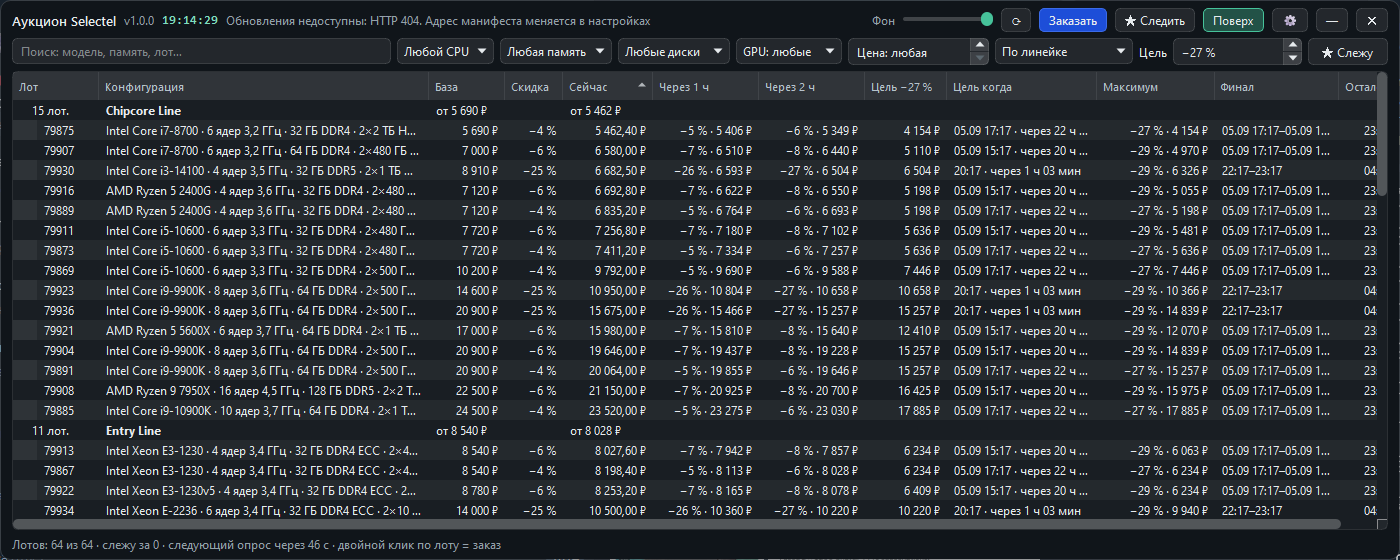
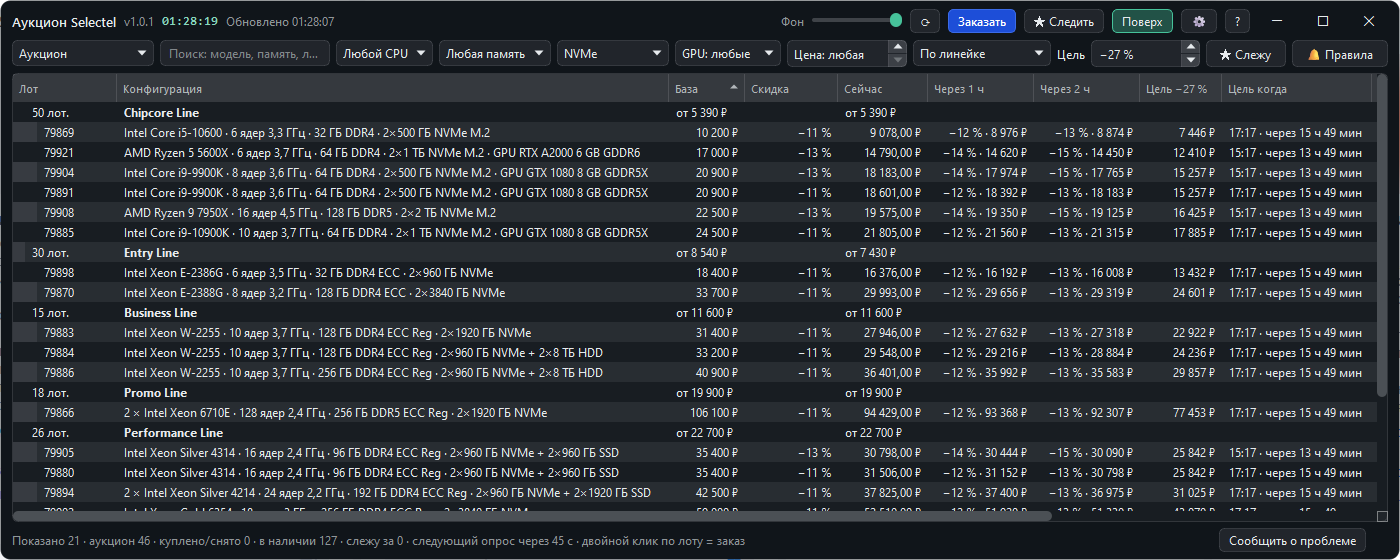
docs: тексты сайта человеческим языком, новые скриншоты без прозрачности, разделы про наличие и правила

Changed region(s): [[0.0, 0.0, 1.0, 1.0]]

diff --git a/docs/index.html b/docs/index.html
@@ -73,9 +73,9 @@
 
 <header class="hero">
   <div class="wrap">
-    <p class="eyebrow">Бесплатно · Windows и Linux · без регистрации в приложении</p>
-    <h1>Аукцион Selectel у вас перед глазами</h1>
-    <p class="lede">На аукционе выделенных серверов Selectel цена лота падает на <b>1 % каждый час</b> и доходит до <b>−29…30 %</b>, но лот в любой момент может забрать кто-то другой. Панель показывает все лоты живьём, считает, во сколько цена дойдёт до вашей, будит звуком в нужный момент и открывает заказ в один клик.</p>
+    <p class="eyebrow">Бесплатно · Windows и Linux · логин и пароль от Selectel не нужны</p>
+    <h1>Бот для отслеживания и покупки серверов Selectel</h1>
+    <p class="lede">Selectel продаёт серверы двумя способами: обычные «в наличии» по фиксированной цене и на аукционе, где цена лота падает на <b>1 % каждый час</b> и за сутки доходит до <b>−27…30 %</b>. Ждать выгодно, но лот может выкупить кто-то другой. Панель держит все предложения перед глазами, считает, во сколько цена станет вашей, будит звуком в нужный момент и открывает заказ в один клик.</p>
     <div class="buttons">
       <a class="btn primary" href="https://github.com/neonvalve/selectel-auction-bot-releases/releases/latest">Скачать для Windows <small>setup.exe</small></a>
       <a class="btn" href="https://github.com/neonvalve/selectel-auction-bot-releases/releases/latest">Скачать для Linux <small>.deb или AppImage</small></a>
@@ -89,7 +89,7 @@
 <section>
   <div class="wrap">
     <h2>Зачем это нужно</h2>
-    <p class="sub">Аукцион Selectel устроен как голландский: партия из 20–60 лотов стартует со скидкой 3–6 %, каждый час скидка растёт на 1 %, через 25 часов лот снимают. Скидка сохраняется на весь срок аренды, поэтому выгодно дождаться конца, но кто первым оплатил, тот и забрал.</p>
+    <p class="sub">Следить за аукционом вручную утомительно: нужно держать открытым сайт, помнить, когда какой лот дойдёт до нужной цены, и не пропустить новую партию. Партия из 20–60 лотов стартует со скидкой 3–6 %, каждый час скидка растёт на 1 %, через 25 часов лот снимают, а скидка сохраняется на весь срок аренды. Кто первым оплатил, тот и забрал. Панель берёт это дежурство на себя.</p>
     <div class="why">
       <div><span class="num">1 %</span><b>каждый час</b><p>Панель знает формулу сайта и показывает не только цену сейчас, но и через 1 и 2 часа, и на любой скидке, которую вы зададите.</p></div>
       <div><span class="num">20:17</span><b>во сколько именно</b><p>Для каждого лота считается точное время, когда он дойдёт до вашей целевой скидки, и до финальной цены партии.</p></div>
@@ -102,7 +102,7 @@
 <section>
   <div class="wrap">
     <h2>Что умеет панель</h2>
-    <p class="sub">Полупрозрачное окно поверх других программ. Держите его рядом с работой, а не переключайтесь на сайт каждые полчаса.</p>
+    <p class="sub">Окно поверх других программ, при желании полупрозрачное. Держите его рядом с работой, а не переключайтесь на сайт каждые полчаса.</p>
 
     <div class="feature">
       <div class="text">
@@ -112,13 +112,26 @@
           <li>Номер лота, конфигурация: процессор, память, диски, видеокарта.</li>
           <li>Базовая цена, скидка и цена сейчас, через 1 час, через 2 часа.</li>
           <li>Максимальная скидка партии, цена в финале и время финала.</li>
+          <li>Купленные и истёкшие лоты ещё 12 часов видны серым: понятно, что и почём ушло.</li>
           <li>Сортировка по любой колонке щелчком по заголовку.</li>
         </ul>
       </div>
-      <div class="shot"><img src="img/panel.png" alt="Таблица лотов, отсортированная по цене" loading="lazy" width="1400" height="560"></div>
+      <div class="shot"><img src="img/panel.png" alt="Таблица лотов аукциона, отсортированная по цене" loading="lazy" width="1400" height="560"></div>
     </div>
 
     <div class="feature flip">
+      <div class="text">
+        <h3>Серверы в наличии тоже здесь</h3>
+        <p>Кроме аукциона панель показывает обычные серверы каталога, которые можно заказать сразу: цена в месяц, в каких дата-центрах есть и сколько штук. Переключатель «Аукцион / В наличии / Аукцион + наличие» слева в строке фильтров.</p>
+        <ul>
+          <li>Те же фильтры и группировки, что и для аукциона.</li>
+          <li>Правила поиска сообщают и о появлении нужного сервера в наличии.</li>
+        </ul>
+      </div>
+      <div class="shot"><img src="img/stock.png" alt="Серверы в наличии с локациями и количеством" loading="lazy" width="1400" height="560"></div>
+    </div>
+
+    <div class="feature">
       <div class="text">
         <h3>Фильтры и группировка по железу</h3>
         <p>Оставьте только то, что вам подходит: производитель процессора, память от 64 ГБ, NVMe, с видеокартой или без, потолок цены, поиск по названию модели.</p>
@@ -131,25 +144,37 @@
       <div class="shot"><img src="img/grouped.png" alt="Лоты, сгруппированные по линейке серверов" loading="lazy" width="1400" height="560"></div>
     </div>
 
-    <div class="feature">
+    <div class="feature flip">
       <div class="text">
         <h3>Слежение с сигналом</h3>
-        <p>Нажмите «★ Следить» и укажите порог скидки. Когда лот до него дойдёт, придёт уведомление в трее и прозвучит сигнал, встроенный или ваш WAV-файл. Если лот выкупили раньше, панель тоже сообщит.</p>
+        <p>Нажмите «★ Следить» и укажите порог скидки. Когда лот до него дойдёт, прозвучит сигнал, встроенный или ваш WAV-файл, всплывёт уведомление, панель покажется и выделит лот. Если лот выкупили раньше, панель тоже сообщит и снимет слежение.</p>
         <ul>
           <li>Порог свой для каждого лота, максимум партии подсказывается сразу.</li>
-          <li>Уведомления о новых лотах, когда выходит очередная партия.</li>
+          <li>Отслеживаемые лоты помечены золотой звездой и подсветкой строки.</li>
           <li>Работает из трея, даже если панель свёрнута.</li>
         </ul>
       </div>
       <div class="shot"><img src="img/watch.png" alt="Окно «Следить за лотом» с выбором порога скидки" loading="lazy" width="1400" height="560"></div>
     </div>
 
+    <div class="feature">
+      <div class="text">
+        <h3>Правила поиска: панель сама найдёт нужное</h3>
+        <p>Выставьте фильтры под то, что ищете, например «Intel, от 64 ГБ, NVMe, цена до 9 000 ₽», и сохраните их как правило кнопкой «🔔 Правила». Когда в новой партии или в наличии появится подходящий сервер, панель подаст сигнал, покажет уведомление и выделит его.</p>
+        <ul>
+          <li>Правил может быть несколько, они сохраняются между запусками.</li>
+          <li>Потолок цены можно сравнивать с финальной ценой партии: правило сработает на лот, который дойдёт до вашей цены к концу аукциона.</li>
+        </ul>
+      </div>
+      <div class="shot"><img src="img/rules.png" alt="Окно правил поиска" loading="lazy" width="1400" height="560"></div>
+    </div>
+
     <div class="feature flip">
       <div class="text">
         <h3>Настройки под себя</h3>
-        <p>Интервал опроса, прозрачность фона, «поверх всех окон», автозагрузка при входе в систему, звук, уведомления и автоматическое обновление приложения.</p>
+        <p>Интервал опроса, прозрачность фона, «поверх всех окон», автозагрузка при входе в систему, звук, уведомления, цвета интерфейса и автоматическое обновление приложения.</p>
         <ul>
-          <li>Панель перетаскивается за заголовок, размер меняется уголком, Esc сворачивает в трей.</li>
+          <li>Панель перетаскивается за заголовок, растягивается за любой край, Esc сворачивает в трей.</li>
           <li>Новые версии приложение находит само и предлагает установить.</li>
         </ul>
       </div>
@@ -164,9 +189,9 @@
     <p class="sub">Пять минут от установки до первого сигнала.</p>
     <div class="steps">
       <div class="step"><b>Установите</b><p>Windows: запустите setup.exe, ярлык появится в меню «Пуск». Linux: пакет .deb для Ubuntu, Debian и Mint ставится двойным кликом, для остальных дистрибутивов есть AppImage.</p></div>
-      <div class="step"><b>Отфильтруйте лоты</b><p>Выберите память, диски, потолок цены. Отсортируйте по колонке «Сейчас» или «Цель».</p></div>
+      <div class="step"><b>Отфильтруйте</b><p>Выберите аукцион или наличие, память, диски, потолок цены. Отсортируйте по колонке «Сейчас» или «Цель».</p></div>
       <div class="step"><b>Задайте цель</b><p>Поле «Цель» вверху: колонки покажут цену и время, когда каждый лот дойдёт до этой скидки.</p></div>
-      <div class="step"><b>Следите</b><p>«★ Следить» на интересных лотах с порогом. Сверните панель в трей и занимайтесь своими делами.</p></div>
+      <div class="step"><b>Следите или сохраните правило</b><p>«★ Следить» на интересных лотах с порогом, а «🔔 Правила» для новых лотов под ваши условия. Сверните панель в трей и занимайтесь своими делами.</p></div>
       <div class="step"><b>Заказывайте</b><p>По сигналу двойной клик по лоту открывает страницу заказа на сайте Selectel. Дальше как обычно: конфигурация, оплата, сервер готов через несколько минут.</p></div>
     </div>
   </div>
